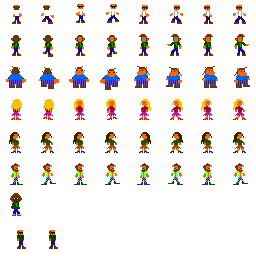
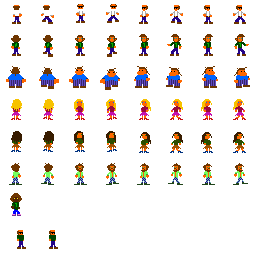
morenaca y moderno dibujadox

diff --git a/src/person.cpp b/src/person.cpp
@@ -10,12 +10,14 @@
 #include <SFML/Audio.hpp>
 
 
-#define NUM_ANIMS_DATA 4
+#define NUM_ANIMS_DATA 6
 
 AnimationData* s_person_data[NUM_ANIMS_DATA] = {
 	NULL,
 	NULL,
 	NULL,
+        NULL,
+        NULL,
         NULL
 };
 
@@ -23,7 +25,9 @@ char* s_person_dataFilenames[NUM_ANIMS_DATA] = {
 	"anim/calvo.anim",
 	"anim/tupe.anim",
 	"anim/gordo.anim",
-        "anim/rubiaca.anim"
+        "anim/rubiaca.anim",
+        "anim/morenaca.anim",
+        "anim/moderno.anim"
 };
 
 void Person::Init() {
